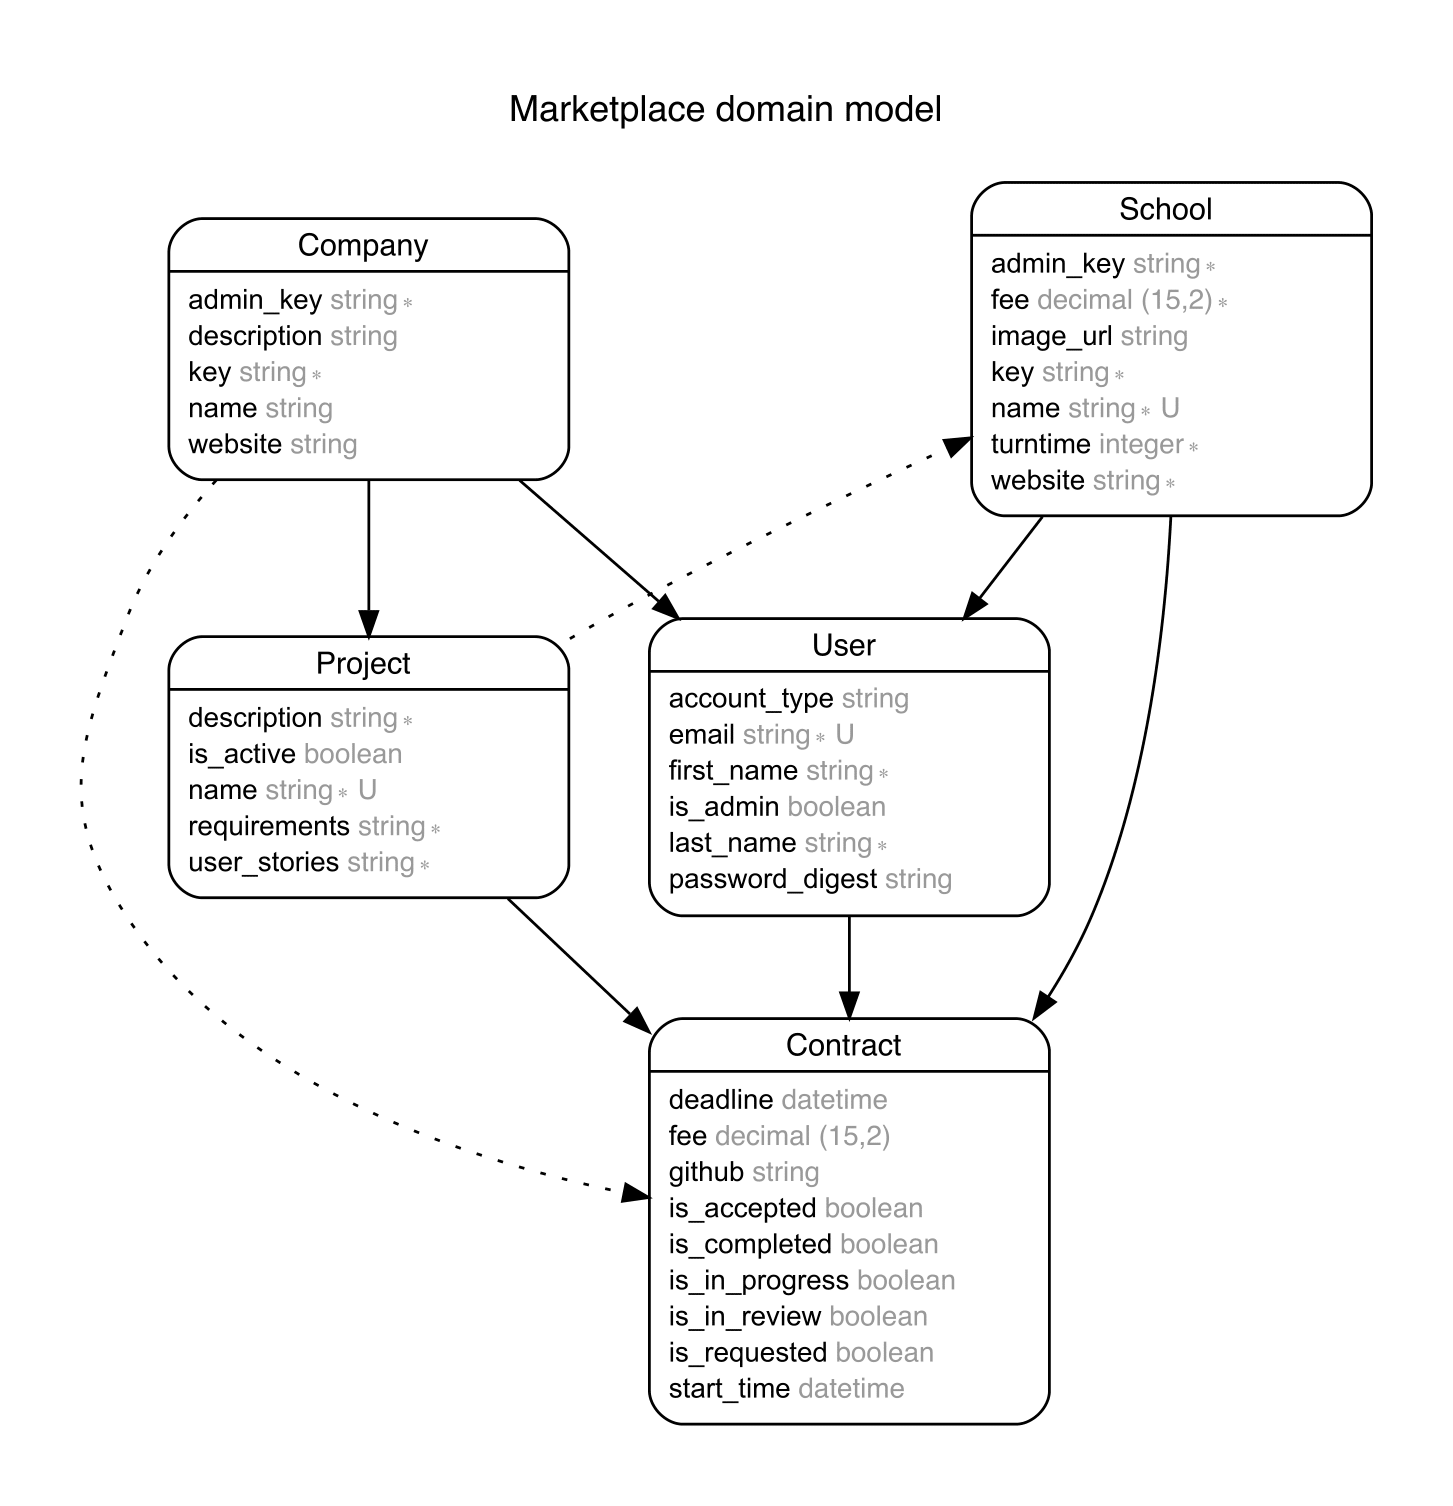
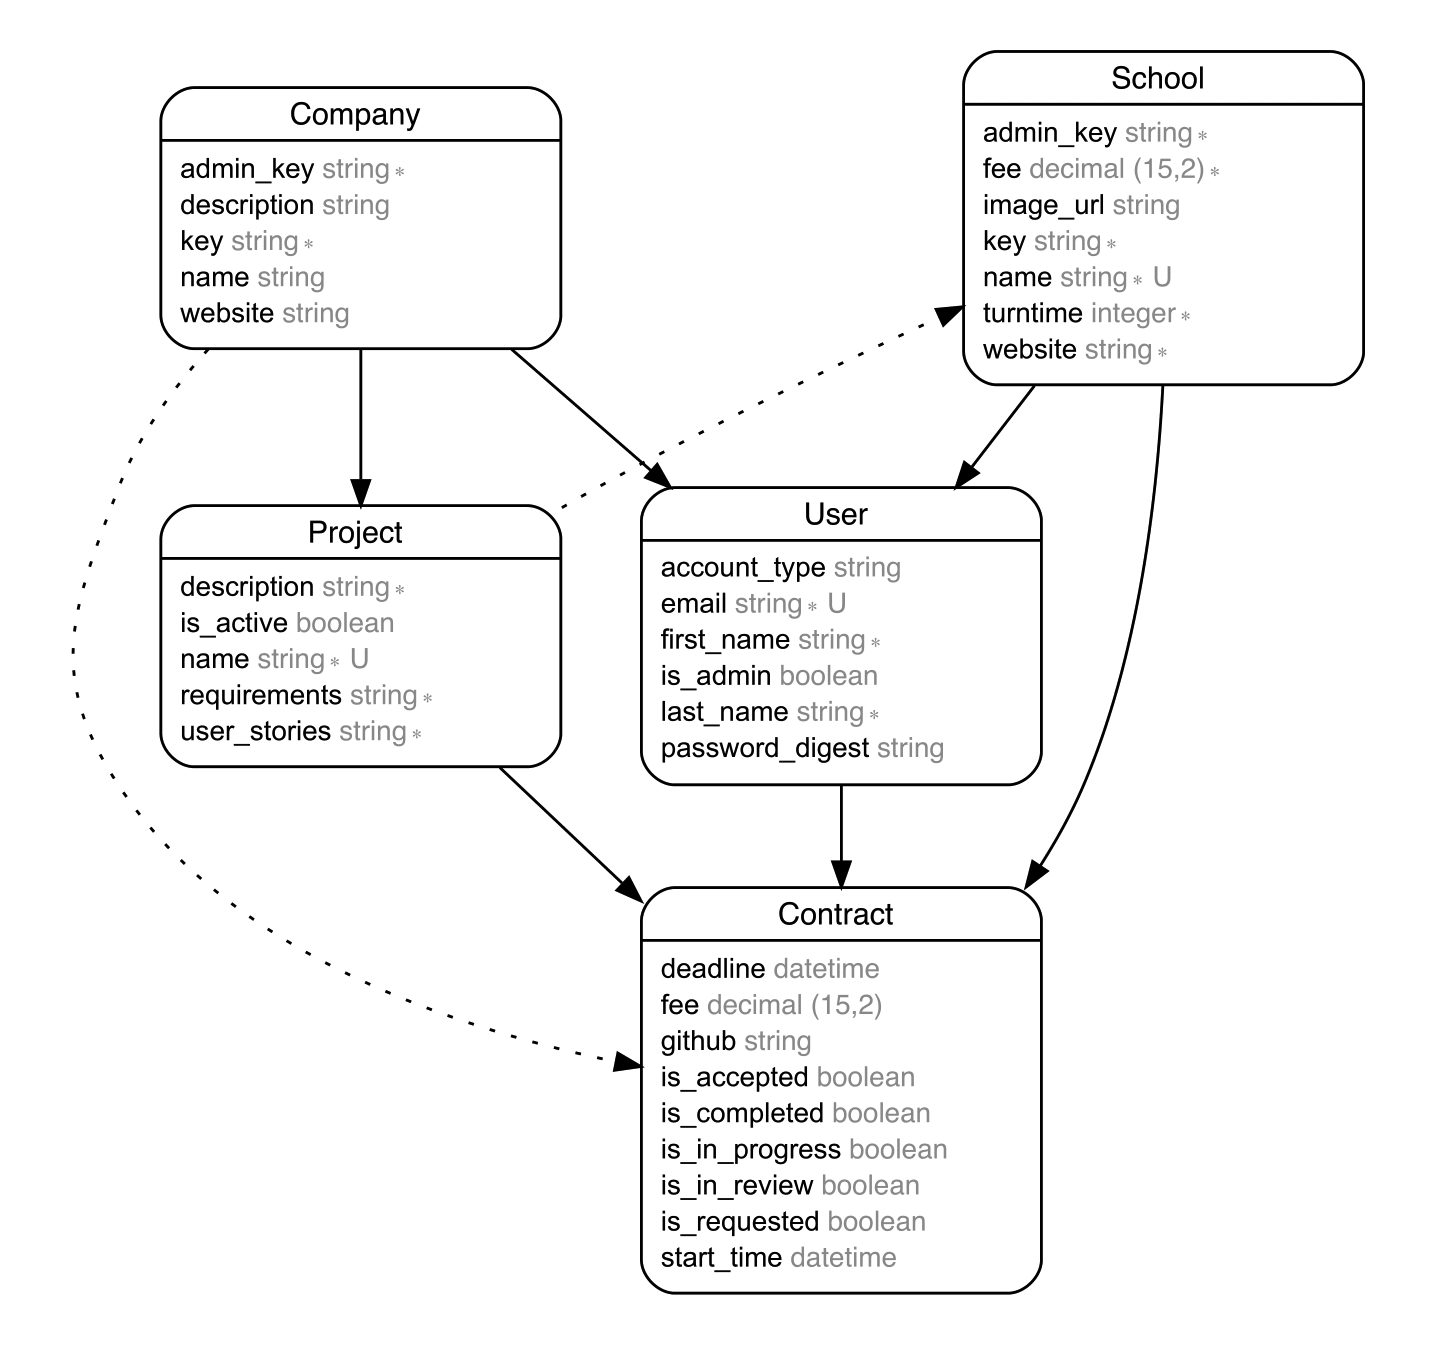
readme

diff --git a/README.md b/README.md
@@ -41,7 +41,7 @@ Web development project marketplace for bootcamp students. Ruby on Rails backend
   * fast_jsonapi: serializing API
   * figaro: storing secure keys
 
-## Database Relationships
+## Domain Model
 
 ![appcess-labs-relationships](https://github.com/matjack9/appcess-labs/blob/master/appcess-labs-relationships.png)
 
